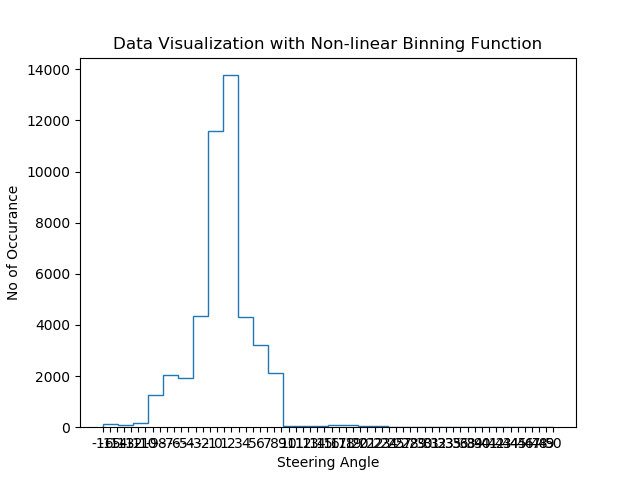
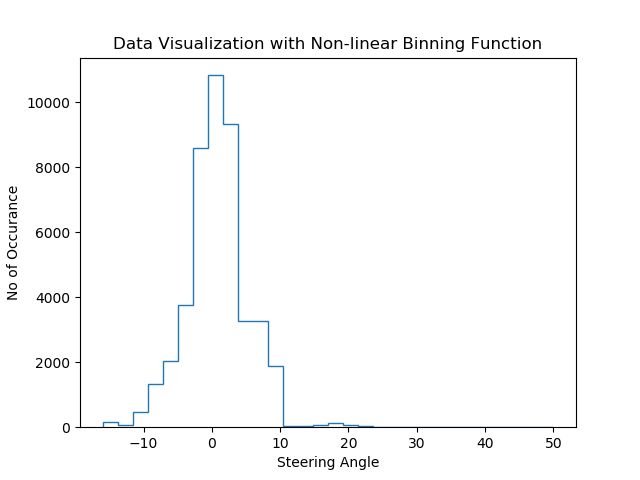
Neural Net Added

diff --git a/control/steering/model.py b/control/steering/model.py
@@ -29,43 +29,176 @@ root_dir=os.getcwd()
 restore_from=os.path.join(root_dir,'saved_model','model_name')
 log_dir=os.path.join(root_dir,'log')
 
-# Variable Initialization
+## Variable Initialization
+
+# Image Vriables
 height=256
 width=455
 batch_size=100
-nb_epoch=10
-saved_model_step=10
+num_classes=16+1+50
+
+# Network Variables
+epochs=200
 max_to_keep=4
+regularizer_scale=0.2
+display_step=1
+batch_display_step=50
+save_model_step=10
+num_train_batch=len(x_train)
+num_val_batch=len(x_val)
+learning_rate=0.0001
+
 
 # Defining Time_based folder creation for logs
 now=datetime.now()
 time_stamp=now.strftime("%Y_%m_%d_%H_%M_%S")
 log_dir=os.path.join(log_dir,time_stamp)
-# os.makedirs(log_dir)
+os.makedirs(log_dir)
 saved_model_dir=os.path.join(root_dir,'saved_model',time_stamp)
-# os.makedirs(saved_model_dir)
+os.makedirs(saved_model_dir)
 print(saved_model_dir)
 
 
 import tensorflow as tf
 
-steering=tf.graph()
+steering=tf.Graph()
 print("Genration of Tensorflow Graph")
 
 with steering.as_default():
-    global_step=tf.variable(0)
+    global_step=tf.Variable(0)
     with tf.name_scope('Inputs'):
         input_data=tf.placeholder(tf.float32,shape=(None,height,width,3),name="images_in")
         input_labels=tf.placeholder(tf.float32,shape=(None),name="steeting_angle")
         is_training=tf.placeholder_with_default(False,shape=())
         condition=tf.cast(is_training,tf.float32)
         pred=tf.less(condition,0.5)
-        one_hot=tf.one_hot(input_labels,)
+        one_hot=tf.one_hot(input_labels,num_classes,dtype=tf.float32,name="One_hot_labels")
+        input_tensor=tf.subtract(tf.multiply(2.0,tf.divide(input_data,255.0)),1.0)
+
     with tf.name_scope("Driver_Net"):
+        regularizer=tf.contrib.layers.l2_regularizer(scale=regularizer_scale)
+        net=tf.layers.conv2d(input_tensor,filters=3,karnel_size=5,strides=(2,2),padding='valid',activation=tf.nn.elu,name="layer0",kernel_regularizer=regularizer)
+        net=tf.layers.dropout(net,rate=0.2)
 
+        net_mean,net_variance=tf.nn.moments(net,[0])
+        net = tf.nn.batch_normalization(net,mean=net_mean,variance=net_variances,offset=None,scale=None,variance_epsilon=0.001)
 
+        net=tf.layers.conv2d(net,filters=24,karnel_size=5,strides=(2,2),padding='valid',activation=tf.nn.elu,name="layer1",kernel_regularizer=regularizer)
+        net=tf.layers.dropout(net,rate=0.2)
 
+        net_mean,net_variance=tf.nn.moments(net,[0])
+        net = tf.nn.batch_normalization(net,mean=net_mean,variance=net_variances,offset=None,scale=None,variance_epsilon=0.001)
 
+        net=tf.layers.conv2d(net,filters=36,karnel_size=5,strides=(2,2),padding='valid',activation=tf.nn.elu,name="layer2",kernel_regularizer=regularizer)
+        net=tf.layers.dropout(net,rate=0.2)
+
+        net_mean,net_variance=tf.nn.moments(net,[0])
+        net = tf.nn.batch_normalization(net,mean=net_mean,variance=net_variances,offset=None,scale=None,variance_epsilon=0.001)
+
+        net=tf.layers.conv2d(net,filters=48,karnel_size=5,strides=(2,2),padding='valid',activation=tf.nn.elu,name="layer3",kernel_regularizer=regularizer)
+        net=tf.layers.dropout(net,rate=0.2)
+
+        net=tf.layers.conv2d(net,filters=64,karnel_size=3,strides=(1,1),padding='valid',activation=tf.nn.elu,name="layer4")
+        net=tf.layers.dropout(net,rate=0.2)
+
+        net=tf.layers.conv2d(net,filters=64,karnel_size=3,strides=(1,1),padding='valid',activation=tf.nn.elu,name="layer5")
+        net=tf.layers.dropout(net,rate=0.2)
+
+        net=tf.contrib.layers.flatten(net)
+
+        net=tf.layers.dense(net,100,activation=tf.nn.elu,name='Dense_1')
+        net=tf.layers.dropout(net,rate=0.5,is_training=is_training)
+
+        net=tf.layers.dense(net,50,activation=tf.nn.elu,name='Dense_2')
+        net=tf.layers.dropout(net,rate=0.5,is_training=is_training)
+
+        net=tf.layers.dense(net,10,activation=tf.nn.elu,name='Dense_3')
+        net=tf.layers.dropout(net,rate=0.5,is_training=is_training)
+
+        output=tf.layers.dense(net,1,name="output_layer")
+
+    with tf.name_scope("Training"):
+        loss=tf.reduce_mean(tf.nn.softmax_cross_entropy_with_logits(logits=output,labels=one_hot),name="loss")
+        optimize=tf.train.AdadeltaOptimizer(learning_rate=learning_rate,name="optimizer").minimize(loss,global_step=global_step)
+
+        #Summery Log
+        training_loss_summery=tf.summary.scalar("Training_Loss",loss)
+        val_loss_summary=tf.summary.scalar("Val_loss",loss)
+
+    with tf.name_scope("Accuracy"):
+        pred_prob=tf.nn.softmax(output)
+        pred_labels=tf.argmax(pred_prob,1,name="predicted_labels")
+        train_acc=tf.metrics.accuracy(input_labels,pred_labels,name="Accuracy")[1]
+        val_acc=tf.metrics.accuracy(input_labels,pred_labels,name="Accuracy")[1]
+
+        # Summery and Logs
+        train_acc_summary=tf.summary.scalar('Training_arruracy',train_acc*100)
+        val_acc_summary=tf.summary.scalar('Validation_arruracy',val_acc*100)
+
+        train_summary_merged=tf.summary.merge([train_acc_summary,training_loss_summery])
+        val_summary_merged=tf.summary.merge([val_acc_summary,val_loss_summery])
+
+    saver=tf.train.Saver(max_to_keep=max_to_keep)
+
+tf.reset_default_graph()
+
+print("Started Running Session .. ")
+with tf.Session(graph=steering) as sess:
+    sess.run(tf.global_variables_initializer())
+    sess.run(tf.local_variables_initializer())
+    #  For Restoring The previous model
+    if tf.train.latest_checkpoint(restore_from) is not None:
+        print("Restoring Model")
+        saver.restore(sess,tf.train.latest_checkpoint(restore_from))
+    # Defining Regular writer discriptions
+    writer=tf.summary.FileWriter(log_dir)
+    writer.add_graph(sess.graph)
+    writer.flush()
+
+    for epoch in range(epochs):
+        epoch_start_time=time.time()
+        # Training Start here
+        for batch_index in range(num_train_batch):
+            batch_start_time=time.time()
+            data=np.load(x_train[batch_index])
+            label=np.load(y_train[batch_index])
+            feed_dict={input_data:data,input_labels:label,is_training:True}
+            sess.run(optimize,feed_dict=feed_dict)
+            # For the Display Purpose
+            if batch_index%(batch_display_step) == 0 and epoch%(display_step)==0:
+                print('Epoch: %d <===>'%(epoch),
+                      '%.2f Percent Completed'%((batch_idx*100.0/num_train_batches)),
+                      '[Batch Size--> %d Images <===> Batch Process Time--> %.2f Seconds]'%(data.shape[0],time.time()-batch_start_time))
+
+        if epoch%display_step == 0:
+            # Calculating Validation Accuracy
+            random_index=np.random.randint(0,x_val.shape[0])
+            sample_val_data=np.load(x_val[random_index])
+            sample_val_label=np.load(y_val[random_index])
+            feed_dict={input_data:sample_val_data,input_labels:sample_val_label,is_training:False}
+            val_accuracy,val_summary=sess.run([val_acc,val_summary_merged],feed_dict)
+
+            # Calculating Training Accuracy
+            random_index=np.random.randint(0,x_val.shape[0])
+            sample_train_data=np.load(x_train[random_index])
+            sample_train_label=np.load(y_train[random_index])
+            feed_dict={input_data:sample_train_data,input_labels:sample_train_label,is_training:False}
+            loss_op,train_accuracy,train_summary=sess.run([loss,train_acc,train_summary_merged],feed_dict)
+
+            # Printing the Output
+            print('Epoch: %d <===>'%(epoch),'(val accuracy-->%.2f) (training loss-->%.2f) (training accuracy-->%.2f)'%(val_accuracy,loss_op,train_accuracy))
+            print('...Writing Logs in %s...'%(time_stamp))
+            writer.add_summary(train_summary,epoch)
+            writer.flush()
+            writer.add_summary(val_summary,epoch)
+            writer.flush()
+            #writer.add_summary(temp_op,epoch)
+            print('[Epoch Process Time--> %.2f Seconds]'%(time.time()-epoch_start_time))
+                #--------------------------------------------------------------
+        if epoch%save_model_step==0:
+            print('...Saving Checkpoint File in %s...'%(times_tamp))
+            saver.save(sess, saved_model,global_step=epoch)
+    tf.train.write_graph(sess.graph,saved_model_dir,'model.pbtxt')
 
 
 

diff --git a/control/steering/data_read.py b/control/steering/data_read.py
@@ -4,34 +4,45 @@ import cv2
 import csv
 from decimal import *
 import matplotlib.pyplot as plt
+import pandas as pd
 
 data_path="../../../data/driving_dataset"
 batch_size = 100
-labels_file=open("../../../data/driving_dataset/data.txt",'r')
+labels_file=pd.read_csv("../../../data/driving_dataset/data.txt",delimiter=' ')
 
 def assign_bin(decimal_value,min_steer,max_steer):
-    int_range=decimal_value.quantize(Decimal('001.'))
+    int_range=decimal_value
     if int(np.divide(int_range,10)) == 0:
-        return int(int_range)
+        return np.round(int_range)
     else:
-        new_int_range=int(np.divide(int_range,10))
+        new_int_range=np.divide(int_range,10)
         # print(new_int_range)
-        return new_int_range
-min_steer=-159.931
-max_steer=501.784
+        return np.round(new_int_range)
+
+labels=np.asarray(labels_file['steer'],dtype=np.float32)
+min_steer=min(labels)
+max_steer=max(labels)
+print(type(labels[0]))
+
+new_label=list()
+for i in range(labels.shape[0]):
+    label=assign_bin(labels[i],min_steer,max_steer)
+    new_label.append(label)
 
 
-labels =list()
-for row in labels_file:
-    k=row.split(" ")
-    k[0]=data_path+"/"+k[0]
-    labels.append(k[0])
-    int_range = assign_bin(Decimal(k[1]),min_steer,max_steer)
-    labels.append(int_range)
+# labels =list()
+# for row in labels_file:
+#     k=row.split(" ")
+#     k[0]=data_path+"/"+k[0]
+#     labels.append(k[0])
+#     int_range = assign_bin(Decimal(k[1]),min_steer,max_steer)
+#     labels.append(int_range)
 
-labels=np.reshape(labels,(int(len(labels)/2),2))
-img_samp=cv2.imread(labels[0,0])
-(img_height,img_width,n_channels)=img_samp.shape
+
+# labels=np.reshape(labels,(int(len(labels)/2),2))
+
+# img_samp=cv2.imread(labels[0,0])
+# (img_height,img_width,n_channels)=img_samp.shape
 
 
 n_batches=int(labels.shape[0]/batch_size)
@@ -39,34 +50,34 @@ n_batches=int(labels.shape[0]/batch_size)
 batch_save_path="../../../data/data_drive/"+"/batches/"
 label_save_path="../../../data/data_drive/"+"/labels/"
 
-#  For the creation of batches
-max_steer=max(labels[0:labels.shape[0],1])
-min_steer=min(labels[0:labels.shape[0],1])
+# #  For the creation of batches
+max_steer=max(new_label)
+min_steer=min(new_label)
 
-min_index=np.argmin(labels[:,1])
-max_index=np.argmax(labels[:,1])
+min_index=np.argmin(new_label)
+max_index=np.argmax(new_label)
 
-# Just For Checking Purposes
+# # Just For Checking Purposes
 print(min_steer,max_steer)
 print(min_index,max_index)
-print(labels[min_index-1,1],labels[max_index-1,1])
-
+# print(labels[min_index,1],labels[max_index,1])
+# print(type(labels[100,1]))
 ##  For the visualization of the data
 
-# shorted_list=sorted(labels[:,1],key=int)
-# plt.hist(shorted_list,bins=30,histtype="step")
-# plt.xlabel("Steering Angle")
-# plt.ylabel("No of Occurance")
-# plt.title("Data Visualization with Non-linear Binning Function")
-# plt.savefig("../../Results/Bining_histogram_steering_Ang.png")
-# plt.show()
+shorted_list=sorted(new_label,key=int)
+plt.hist(shorted_list,bins=30,histtype="step")
+plt.xlabel("Steering Angle")
+plt.ylabel("No of Occurance")
+plt.title("Data Visualization with Non-linear Binning Function")
+plt.savefig("../../Results/Bining_histogram_steering_Ang.png")
+plt.show()
 
 ##  For the generation of data and labels
 
 # for i in range(n_batches):
 #     # batch=np.zeros((batch_size,img_height,img_width,n_channels))
 #     steering=np.zeros((batch_size),dtype=float)
-#     steering=labels[i*batch_size:(i+1)*batch_size,1]
+#     steering=new_label[i*batch_size:(i+1)*batch_size]
 #     # filename=labels[i*batch_size:(i+1)*batch_size,0]
 #     # for j in range(batch_size):
 #     #     batch[j,:,:,:]=cv2.imread(filename[j])
@@ -79,7 +90,7 @@ print(labels[min_index-1,1],labels[max_index-1,1])
 ##  For the testing of the generated batches and labels
 
 # batch1=np.load(batch_save_path+"batch_0.npy")
-# label1=np.load(label_save_path+"label_0.npy")
+# label1=np.load(label_save_path+"label_15.npy")
 # print(label1[10])
 
 
